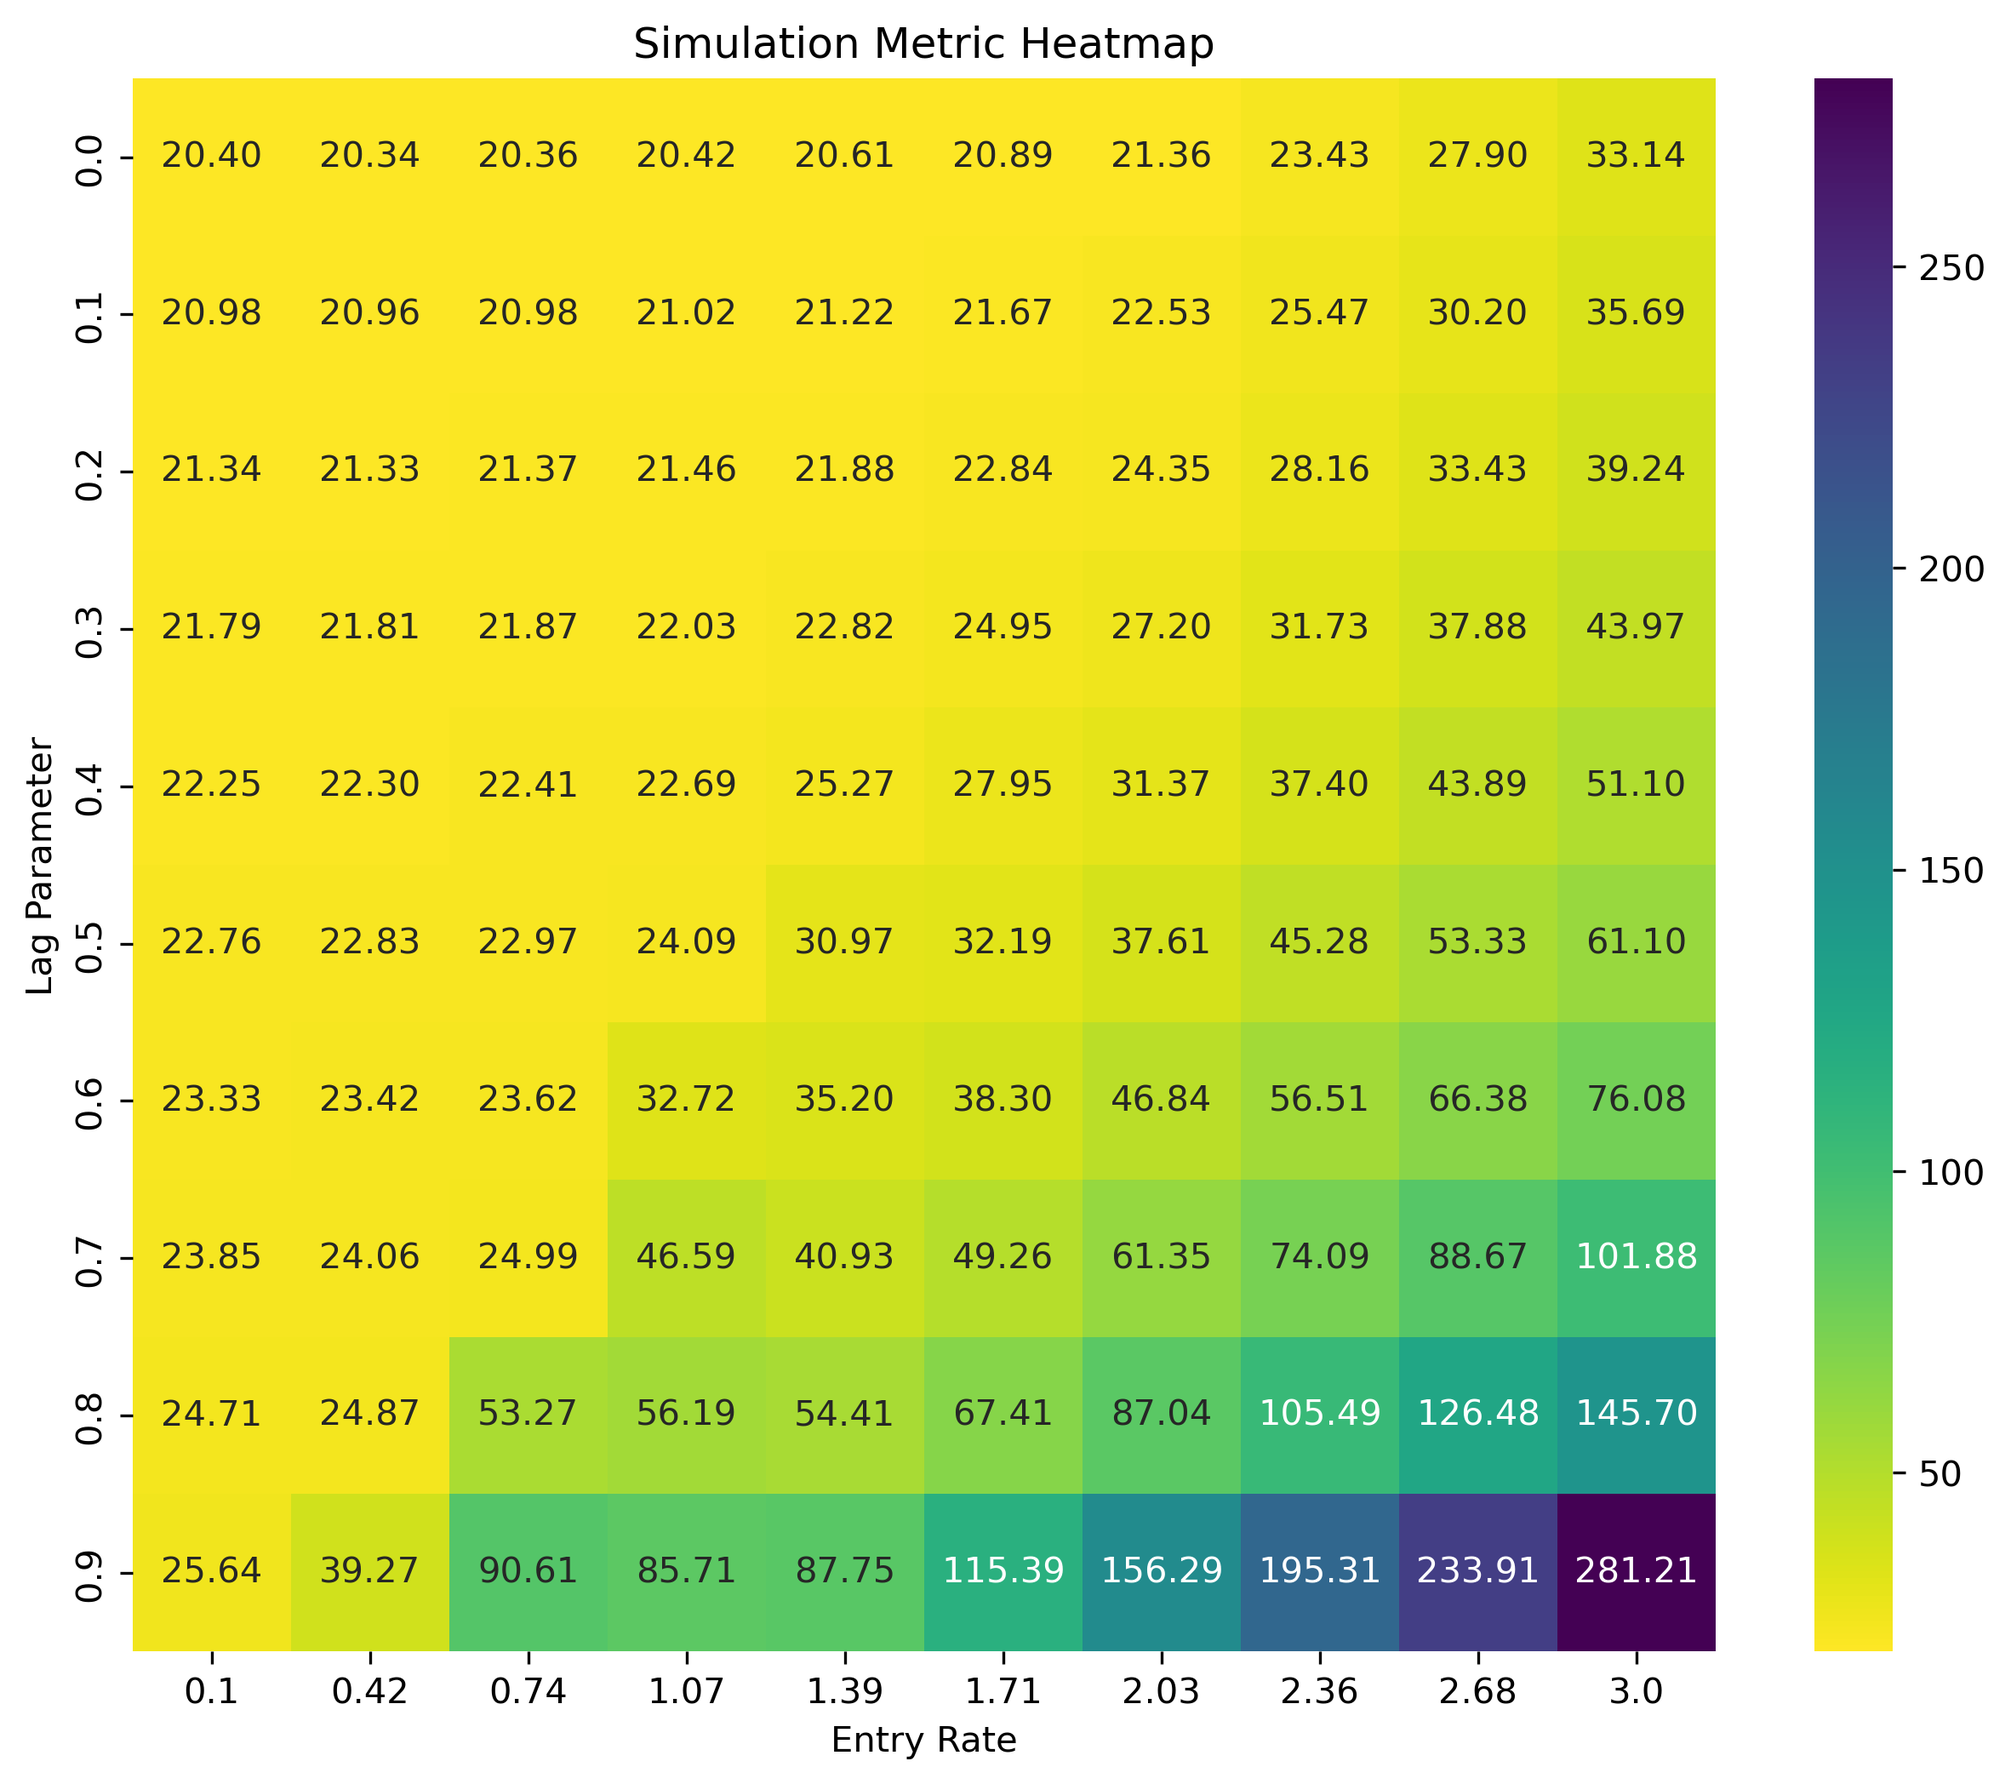
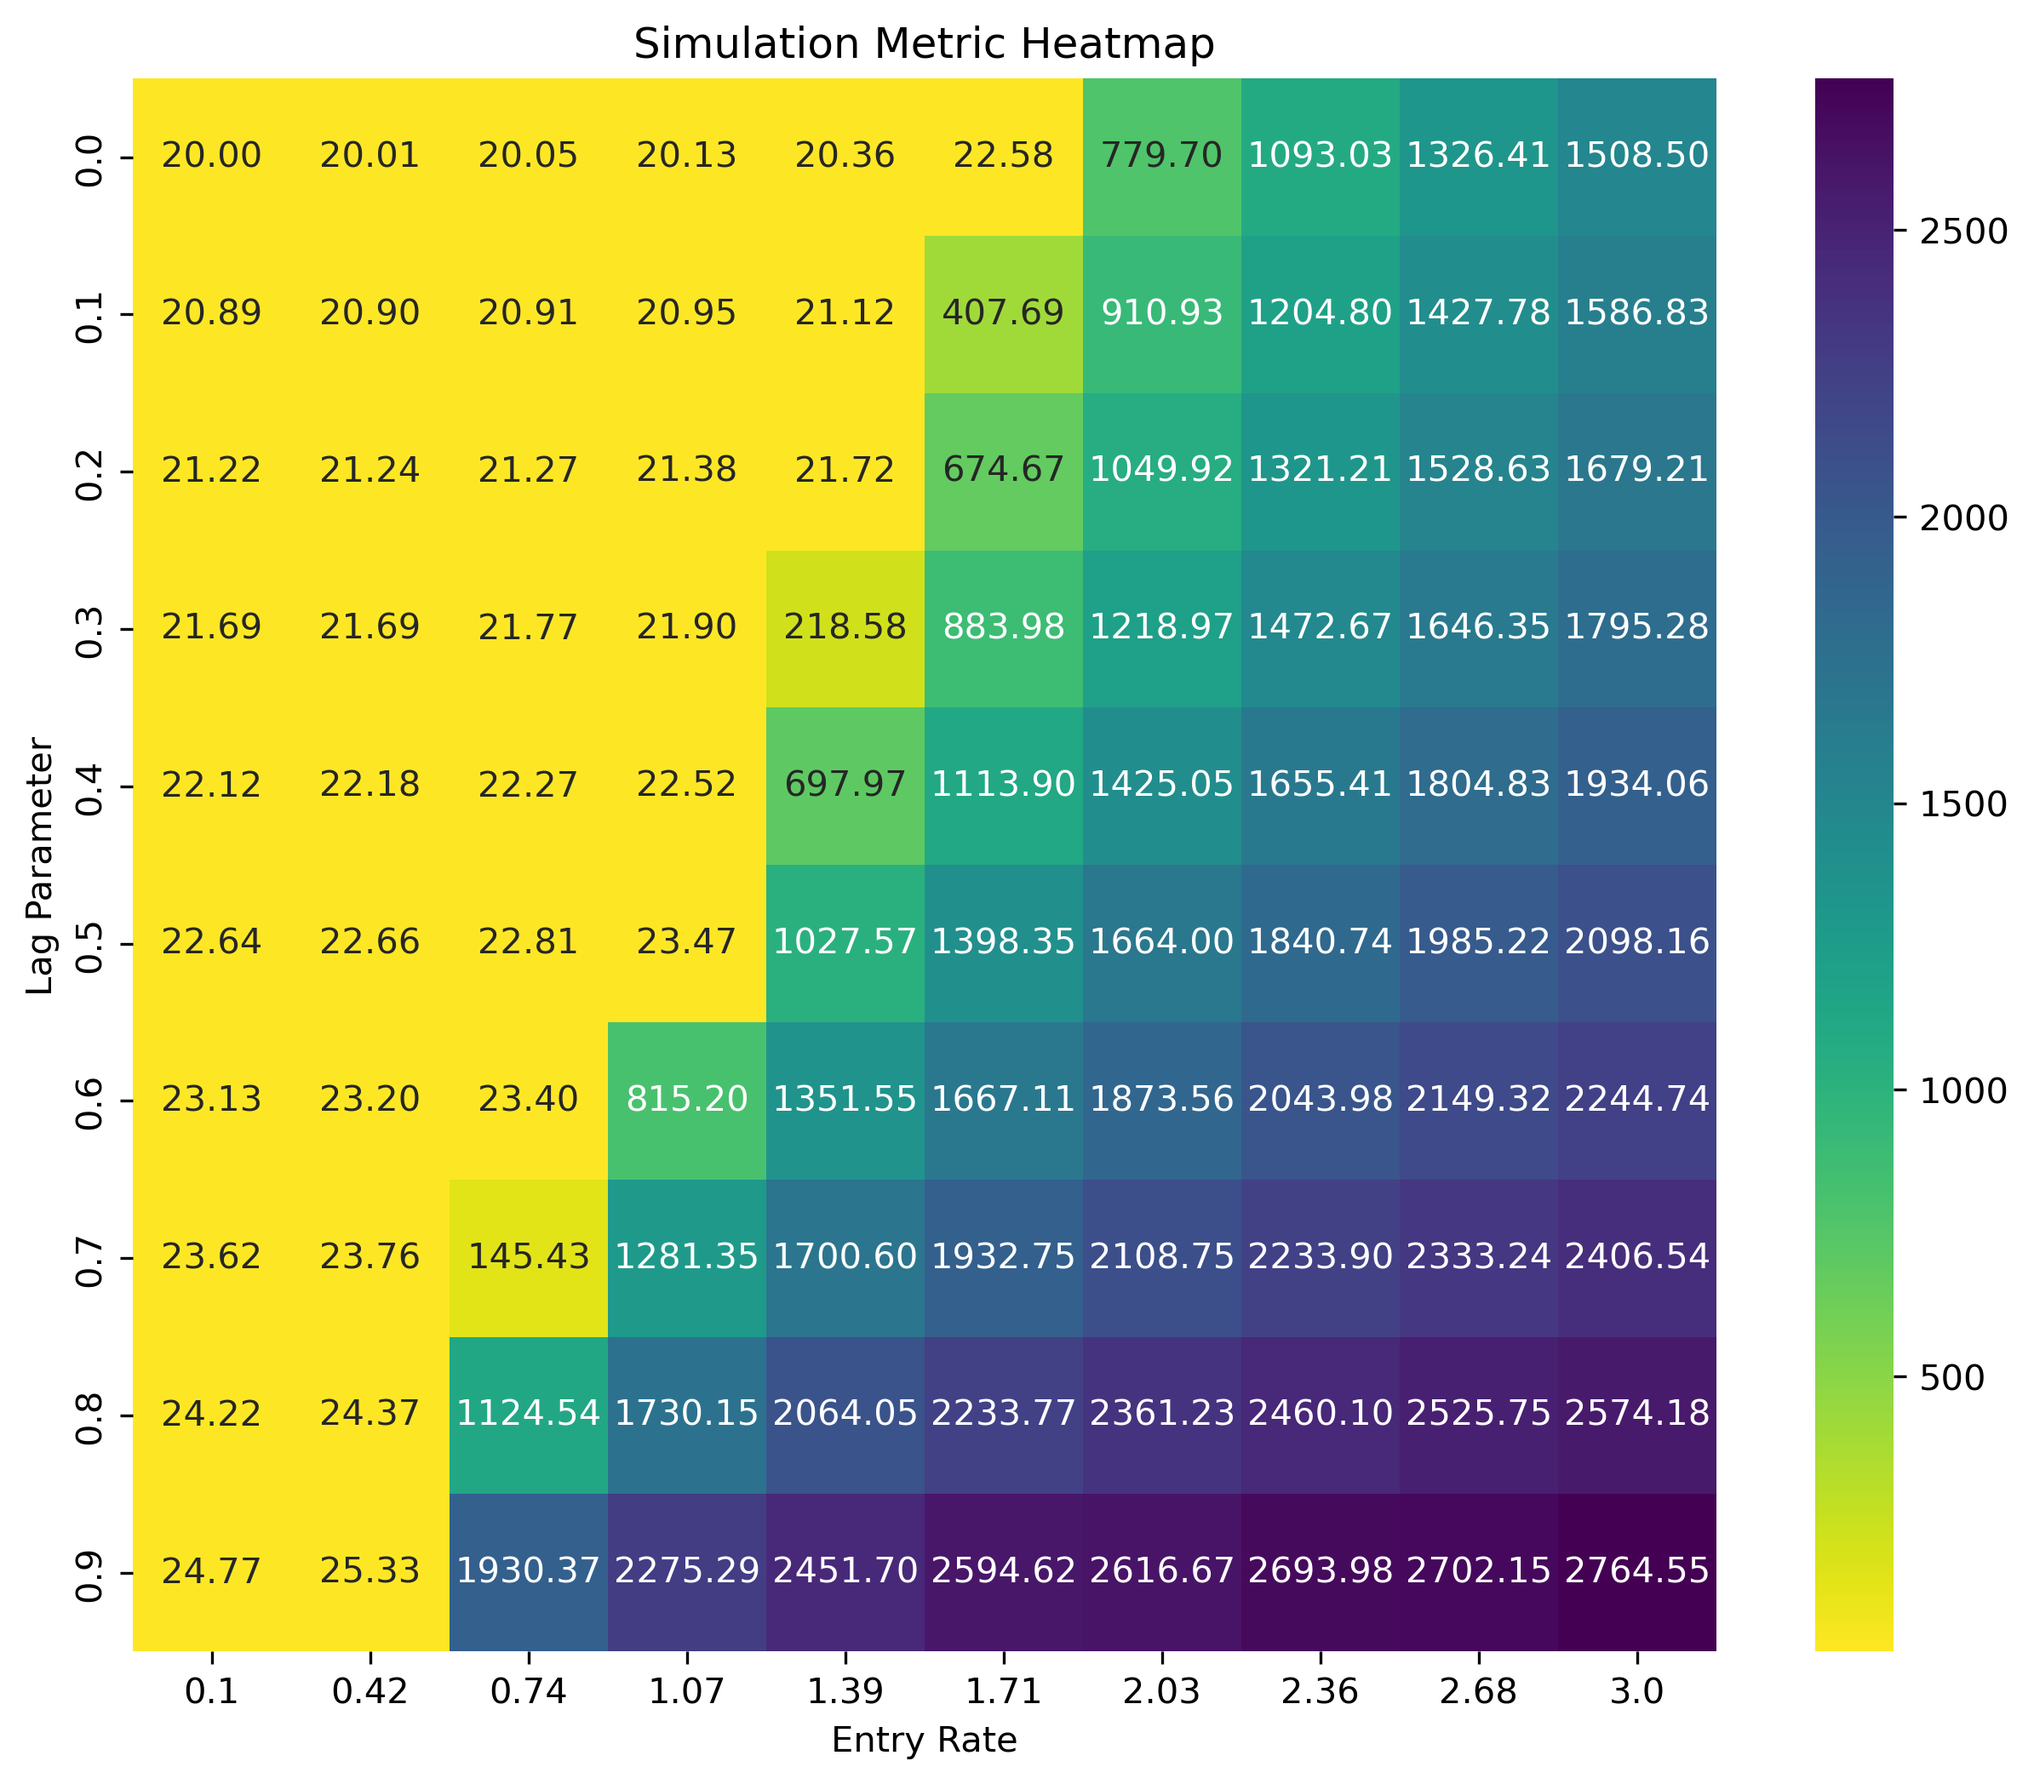
Added an entry queue to more accurately measure travel times including entry delay

diff --git a/simulation/SimulationMultiple.py b/simulation/SimulationMultiple.py
@@ -39,6 +39,7 @@ class SimulationMultiple:
             print(f"Warmup progress: 100% - {end - start:.4f} seconds")
         
         self.model.reset_stats()
+        self.model.reset_queue()
 
         start = time.time()
         mod = math.ceil(s/100)
@@ -96,74 +97,25 @@ class SimulationMultiple:
     def get_stats(self):
         time_stats = self.model.get_time_stats()
 
-        if len(time_stats) == 0:
-            return {
-            "length": self.road_length * 7.5,
-            "length_model": self.road_length,
-            "time_min": 0,
-            "time_max": 0,
-            "time_avg": 0,
-            "velocity_avg": 0,
-            "cars": 0,
-            "time_avg_by_cars": 0,
-            "velocity_avg_by_cars": 0,
-            "time_adj": 0,
-            "velocity_avg_adj": 0
-        }
-
-        # Our method of measuring time has the crucial weakness that it only records cars that complete the track
-        # However, with high lag_parameters cars tend to block the entrance of the road and therefore no more travel, which distorts the data
-        reference_speed = 4 + (1-self.lag_parameter)
-        reference_cars = self.steps * self.entry_rate
-        cars = len(time_stats)
-        time_estimated = self.road_length / ((cars / reference_cars) * reference_speed)
-
-        time_avg = np.average(time_stats)
-
-        # Interpolate a time based on the recorded and estimated times
-        k = time_avg * 0.5
-        t = abs(time_estimated - time_avg) / (abs(time_estimated - time_avg) + k)
-        time_adj = time_avg * (1-t) + time_estimated * t
-        # The estimation is only necessary if the recorded time is unrealistically low
-        # If the estimation is lower than the recording, it suggests that the recording is fine as it is
-        if time_estimated < time_avg:
-            time_adj = time_avg
-
         return {
             "length": self.road_length * 7.5,
             "length_model": self.road_length,
             "time_min": np.min(time_stats),
             "time_max": np.max(time_stats),
-            "time_avg": time_avg,
-            "velocity_avg": self.road_length * 7.5 / time_avg,
-            "cars": cars,
-            "time_avg_by_cars": time_estimated,
-            "velocity_avg_by_cars": self.road_length * 7.5 / time_estimated,
-            "time_adj": time_adj,
-            "velocity_avg_adj": self.road_length * 7.5 / time_adj,
+            "time_avg": np.average(time_stats),
+            "velocity_avg": self.road_length * 7.5 / np.average(time_stats),
+            "cars": len(time_stats),
         }
     
     def print_stats(self):
         stats = self.get_stats()
         print(f"Total road segment length: {stats["length"]:.0f}m")
-        print(f"Average completion time (recoded): {stats["time_avg"]:.2f}s")
-        print(f"Average completion time (estimated): {stats["time_avg_by_cars"]:.2f}s")
-        print(f"Average completion time (interpolated): {stats["time_adj"]:.2f}s")
-        print(f"Average speed (recoded): {stats["velocity_avg"]:.2f}m/s or {stats["velocity_avg"]*3.6:.0f}km/h")
-        print(f"Average speed (estimated): {stats["velocity_avg_by_cars"]:.2f}m/s or {stats["velocity_avg_by_cars"]*3.6:.0f}km/h")
-        print(f"Average speed (interpolated): {stats["velocity_avg_adj"]:.2f}m/s or {stats["velocity_avg_adj"]*3.6:.0f}km/h")
+        print(f"Average completion time: {stats["time_avg"]:.2f}s")
+        print(f"Average speed: {stats["velocity_avg"]:.2f}m/s or {stats["velocity_avg"]*3.6:.0f}km/h")
 
 if __name__ == "__main__":
-    sim = SimulationMultiple(100, 3, 0.506, 2.112, True)
+    sim = SimulationMultiple(100, 3, 0.479, 1.045, True)
     sim.run()
     sim.print_stats()
-    #sim.animate(100)
-    
-    sim = SimulationMultiple(100, 3, 0.385, 2.549, True)
-    sim.run()
-    sim.print_stats()
-    
-    sim = SimulationMultiple(100, 3, 0.625, 1.711, True)
-    sim.run()
-    sim.print_stats()
+    sim.animate(100)
     

diff --git a/simulation/NagelSchreckenbergMultiple.py b/simulation/NagelSchreckenbergMultiple.py
@@ -24,6 +24,8 @@ class NagelSchreckenbergMultiple:
 
         self.closing_end_times = {}
 
+        self.entry_queue = []
+
     def step(self):
         new_road = np.full((self.lanes, self.road_length), -1)
         new_velocities = {}
@@ -106,15 +108,23 @@ class NagelSchreckenbergMultiple:
                     self.times_taken[car_id] = self.current_step - start_time
 
         # New cars entering
+        # Fill new cars initially into a queue to keep track of how long they have to wait outside of our road due to a congestion at the start
+        # This ensures that the entry_rate parameter never becomes useless and distorts values
         remaining_entry_rate = self.entry_rate
-        for lane in np.random.permutation(self.lanes):
-            if new_road[lane, 0] == -1 and random.random() < remaining_entry_rate:
-                new_road[lane, 0] = self.next_car_id
-                # New cars don't start standing, but a certain speed
-                new_velocities[self.next_car_id] = random.randint(math.ceil(self.v_max/2.0), self.v_max)
-                self.start_times[self.next_car_id] = self.current_step # Record start time
+        while remaining_entry_rate > 0:
+            if random.random() < remaining_entry_rate:
+                self.entry_queue.append(self.next_car_id)
+                self.start_times[self.next_car_id] = self.current_step
                 self.next_car_id += 1
             remaining_entry_rate -= 1
+
+        # Randomly place the new cars in the lanes if there is space
+        for lane in np.random.permutation(self.lanes):
+            if self.entry_queue and new_road[lane, 0] == -1:
+                car_id = self.entry_queue.pop(0)
+                new_road[lane, 0] = car_id
+                # New cars don't start standing, but a certain speed
+                new_velocities[car_id] = random.randint(self.v_max, self.v_max)
 
         self.road = new_road
         self.velocities = new_velocities
@@ -128,6 +138,9 @@ class NagelSchreckenbergMultiple:
     
     def reset_stats(self):
         self.times_taken = {}
+
+    def reset_queue(self):
+        self.entry_queue = []
 
     def set_parameters(self, lag_parameter, entry_rate):
         self.lag_parameter = lag_parameter

diff --git a/simulation/Calibration.py b/simulation/Calibration.py
@@ -30,10 +30,9 @@ class Calibration:
         """
         # Set the initial parameters if not given
         if lag_parameter is None:
-            # Initialize the lag_parameter smaller, because it makes sense in the modeled system to not dawdle too much
             lag_parameter = (self.lag_parameter_max - self.lag_parameter_min) / 3
         if entry_rate is None:
-            entry_rate = (self.entry_rate_max - self.entry_rate_min) / 2
+            entry_rate = (self.entry_rate_max - self.entry_rate_min) / 3
         
         # Define the update steps for the calibration
         if lag_parameter_step is None:
@@ -91,7 +90,7 @@ class Calibration:
         road_length, lanes, lag_parameter, entry_rate = args
         sim = SimulationMultiple(road_length, lanes, lag_parameter, entry_rate)
         sim.run(verbose=False)
-        return sim.get_stats()["time_adj"]
+        return sim.get_stats()["time_avg"]
     
     def print_results(self):
         print("\nFinal Parameters:")
@@ -108,10 +107,6 @@ class Calibration:
         print(f"    Result speed: {result_speed:.2f}m/s | {result_speed*3.6:.2f}km/h")
     
 if __name__ == "__main__":
-    cal = Calibration(40, 1)
-    cal.calibrate()
-    cal.print_results()
-    cal.calibrate(ratio=2)
-    cal.print_results()
-    cal.calibrate(ratio=0.5)
+    cal = Calibration(25, 1)
+    cal.calibrate(lag_parameter_step=0.05, entry_rate_step=0.01)
     cal.print_results()

diff --git a/simulation/ParameterHeatmap.py b/simulation/ParameterHeatmap.py
@@ -62,7 +62,7 @@ class ParameterHeatmap:
             sim.run(verbose=False)
             current_run = i*self.entry_rate_steps*self.repetitions + j*self.repetitions + (r+1)
             print(f"Generation progress: {current_run} / {self.max_simulations}", end="\r")
-            sum_of_avg_travel_time += sim.get_stats()["time_adj"]
+            sum_of_avg_travel_time += sim.get_stats()["time_avg"]
         return i, j, sum_of_avg_travel_time / self.repetitions
 
     def plot(self, figsize=(10,8), save_path=None):
@@ -81,6 +81,6 @@ class ParameterHeatmap:
         plt.show()
 
 if __name__ == "__main__":
-    ph = ParameterHeatmap(road_length=100, lanes=3, repetitions=3, multi_lane_rules=True)
+    ph = ParameterHeatmap(road_length=100, lanes=3, repetitions=3, entry_rate_min=0.5, entry_rate_max=2)
     ph.run_simulations()
-    ph.plot(save_path="heatmap_road100_lanes3.png")
+    ph.plot(save_path="heatmap_road100_lanes3_less-entry.png")
